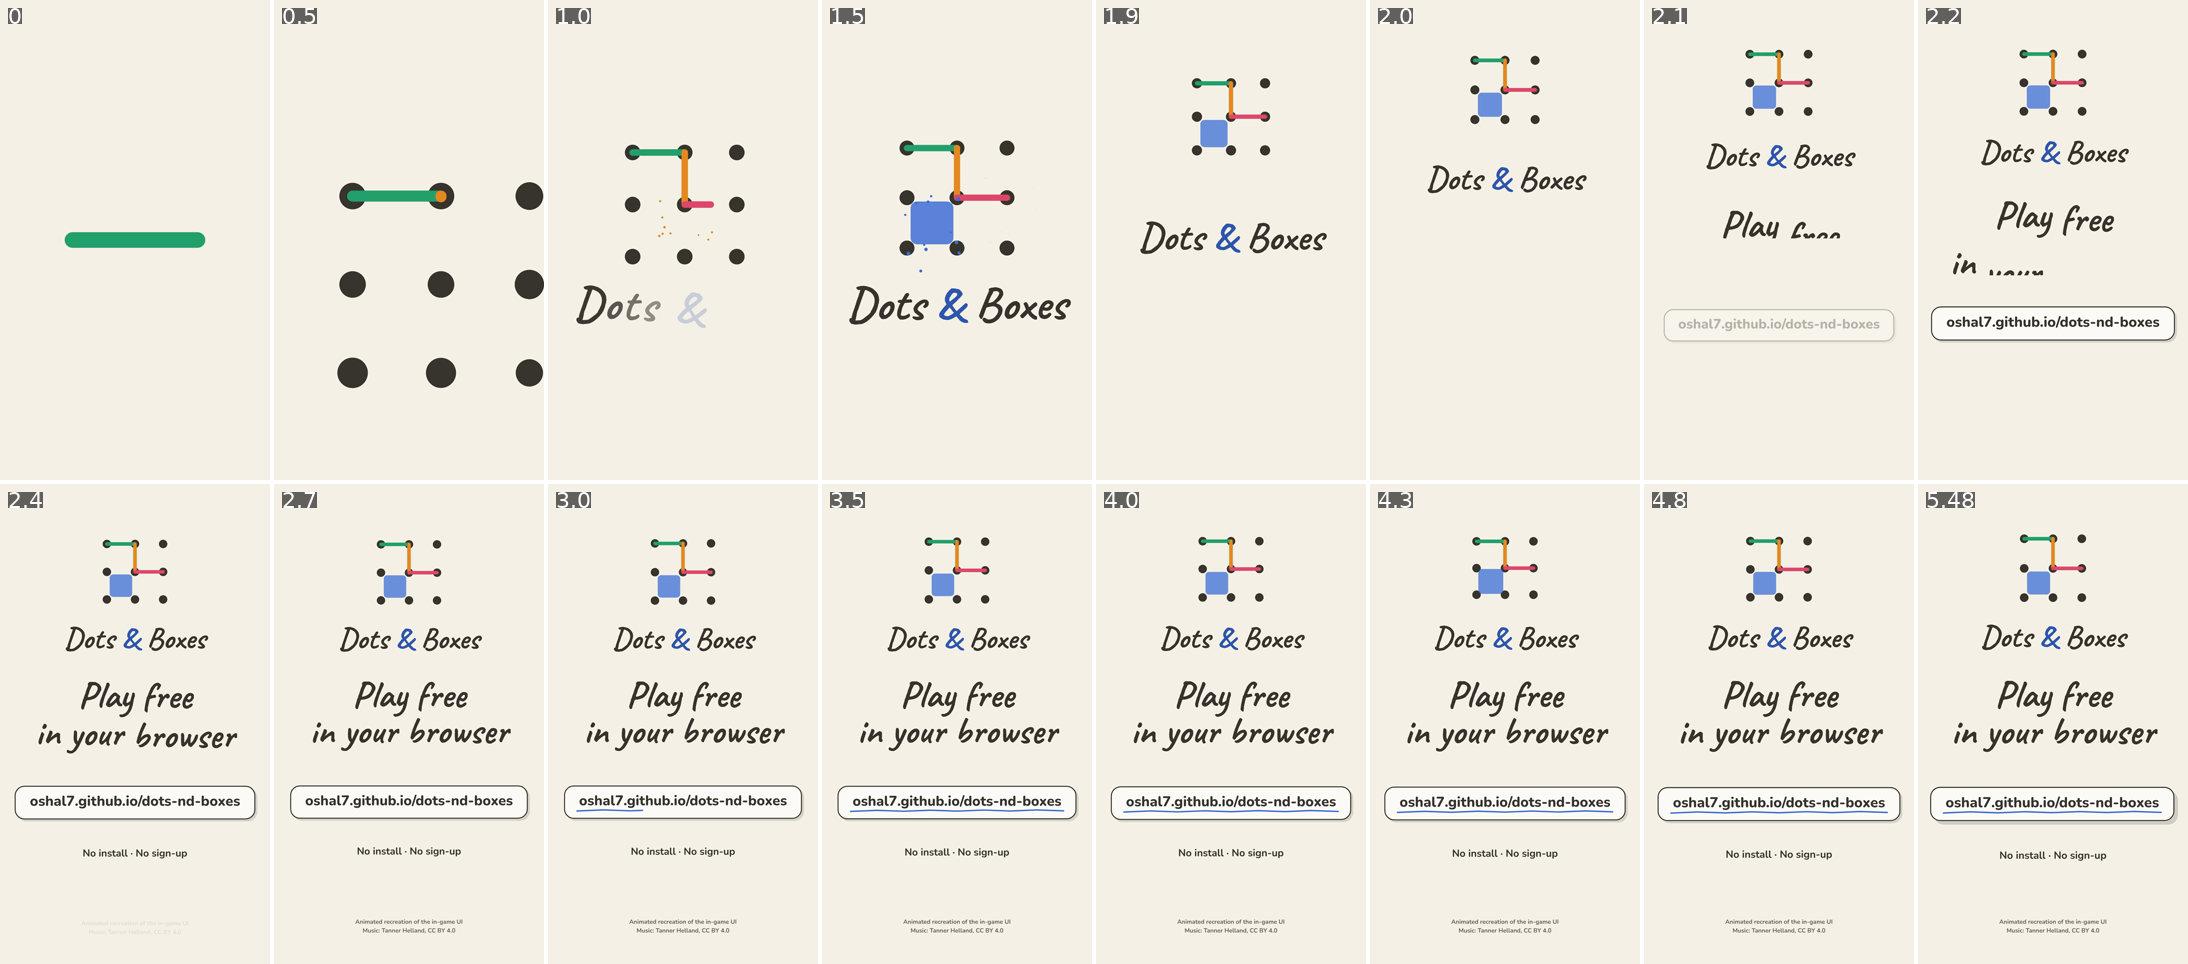
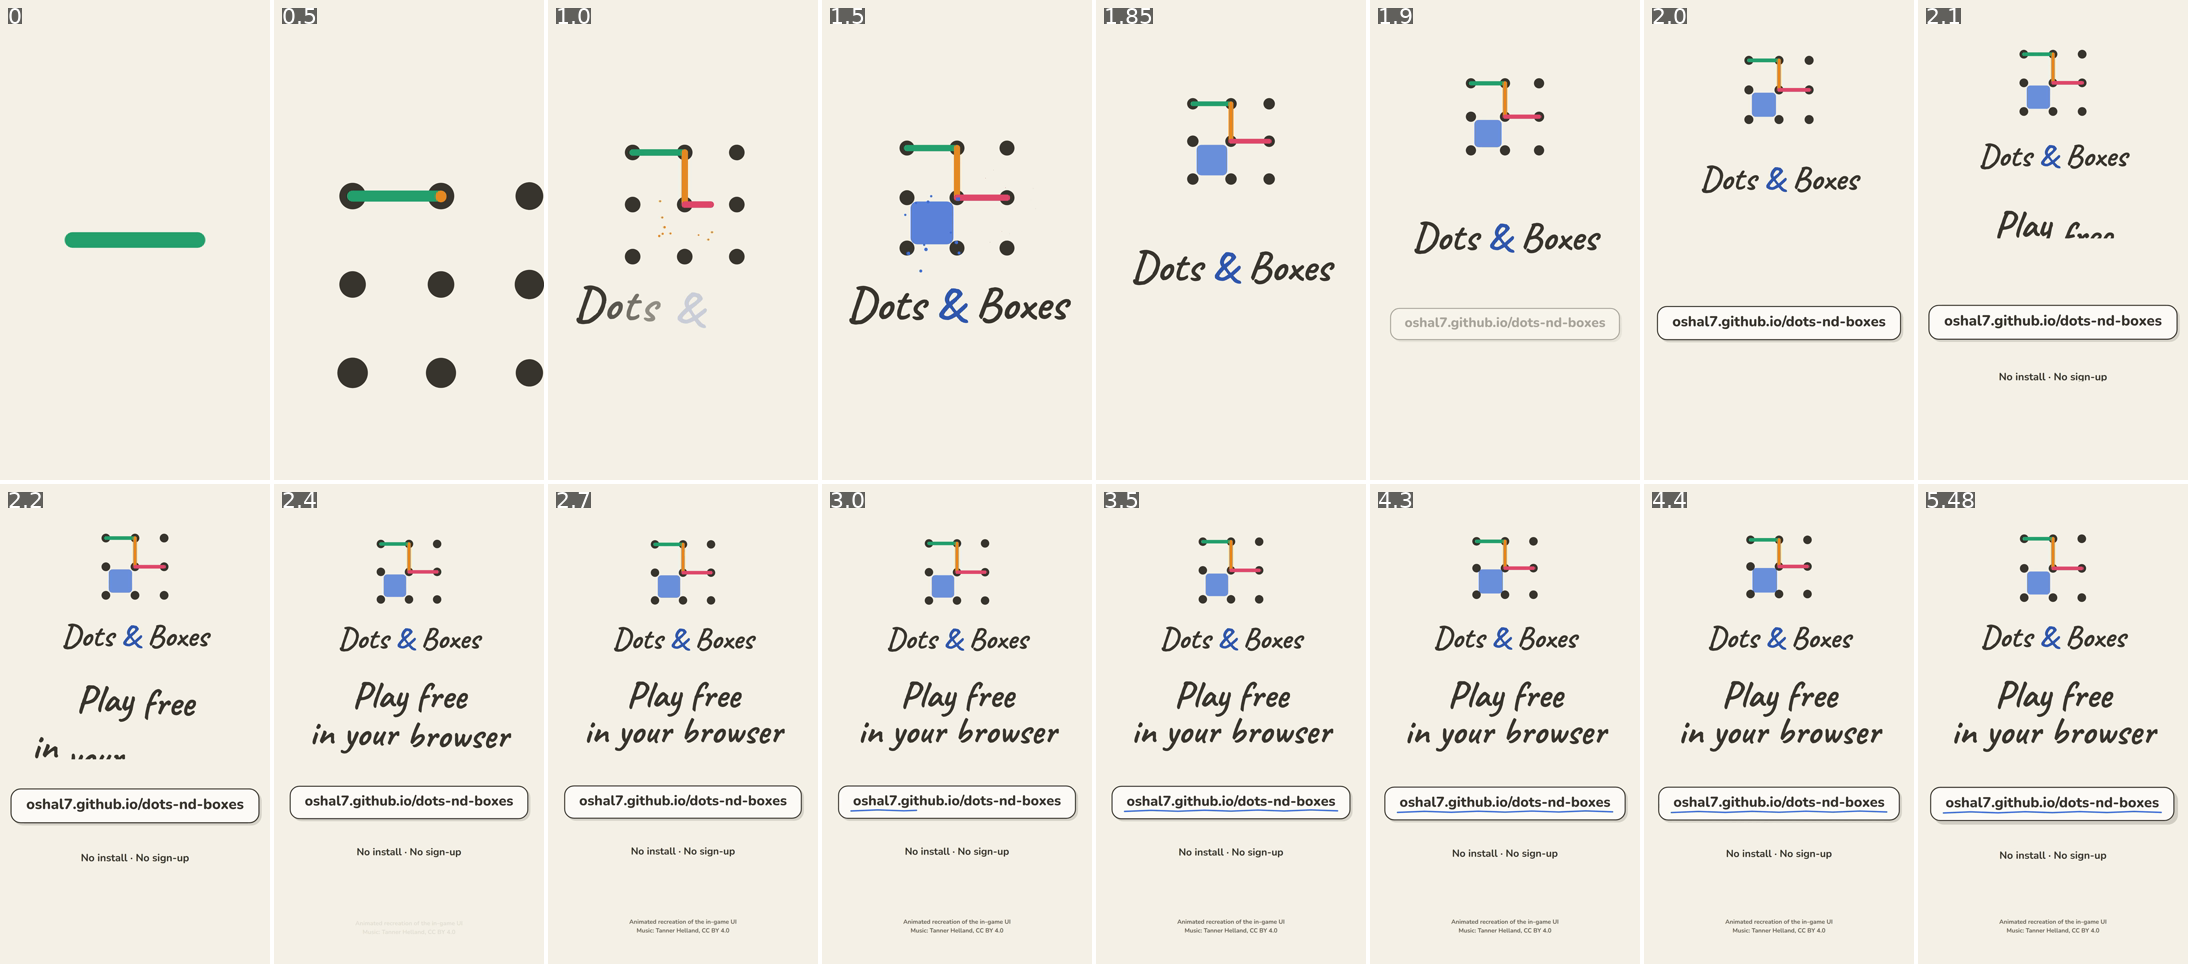
Brand module: polish after verification (9:16 pill timing, box pulse)
Claude-Session: https://claude.ai/code/session_015djpT82mPv6pF3coxQuzAb

diff --git a/promo/scenes/brand.js b/promo/scenes/brand.js
@@ -38,6 +38,8 @@ export default {
   async build({ layer, W, H, V }) {
     const L = hand(V).L;
     const headT0 = V ? 26.5 : TM.head; // 9:16: the rising lockup crosses the headline's band, so it clears first
+    // 9:16: the pill and sub-line sit below the lockup's path, so they arrive first and fill the lower half during the move
+    const pillT = V ? [26.35, 26.85] : TM.pill, subT = V ? [26.5, 26.98] : TM.sub;
     const cam = div('', layer, '', { position: 'absolute', left: 0, top: 0, width: W + 'px', height: H + 'px' });
 
     // ---------- layout (all in film px) ----------
@@ -206,8 +208,8 @@ export default {
           const u = seg(t, TM.box[0], TM.box[1]);
           let sc, op;
           if (u <= 0) { sc = 0.4; op = 0; } else if (u < 0.5) { const q = inOutCubic(u / 0.5); sc = lerp(0.4, 1.08, q); op = lerp(0, 0.85, q); } else { const q = inOutCubic((u - 0.5) / 0.5); sc = lerp(1.08, 1, q); op = lerp(0.85, 0.75, q); }
-          const v = seg(t, TM.pulse, TM.pulse + 0.55);
-          if (v > 0 && v < 1) { sc *= v < 0.3 ? lerp(1, 1.1, outCubic(v / 0.3)) : lerp(1.1, 1, smooth((v - 0.3) / 0.7)); }
+          const v = seg(t, TM.pulse, TM.pulse + 0.75);
+          if (v > 0 && v < 1) { sc *= v < 0.35 ? lerp(1, 1.08, outCubic(v / 0.35)) : lerp(1.08, 1, smooth((v - 0.35) / 0.65)); }
           const dy = (dotDY(t, 3) + dotDY(t, 4) + dotDY(t, 6) + dotDY(t, 7)) / 4;
           box.setAttribute('transform', `translate(${BOX.cx} ${(BOX.cy + dy).toFixed(3)}) scale(${sc.toFixed(4)}) translate(${-BOX.cx} ${-BOX.cy})`);
           box.setAttribute('opacity', op.toFixed(3));
@@ -236,7 +238,7 @@ export default {
         });
         // URL pill scales in from 0.9 with a slight overshoot (back out), later lifts like the game's button hover
         {
-          const p = seg(t, TM.pill[0], TM.pill[1]);
+          const p = seg(t, pillT[0], pillT[1]);
           const sc = 0.9 + 0.1 * outBack(p, 1.7);
           const h = inOutCubic(seg(t, TM.hover[0], TM.hover[1]));
           pill.style.boxShadow = `${(3 + 2 * h) * k}px ${(3 + 2 * h) * k}px 0 rgba(56,53,47,${(0.16 + 0.03 * h).toFixed(3)})`;
@@ -246,7 +248,7 @@ export default {
           under.setAttribute('opacity', u > 0 ? 1 : 0);
         }
         {
-          const p = seg(t, TM.sub[0], TM.sub[1]);
+          const p = seg(t, subT[0], subT[1]);
           place(sub, LY.sub[0], LY.sub[1], subW, subH, 1, 1);
           subIn.style.transform = `translateY(${((1 - outExpoS(p)) * 120).toFixed(2)}%)`;
           subIn.style.visibility = p > 0 ? 'visible' : 'hidden';
